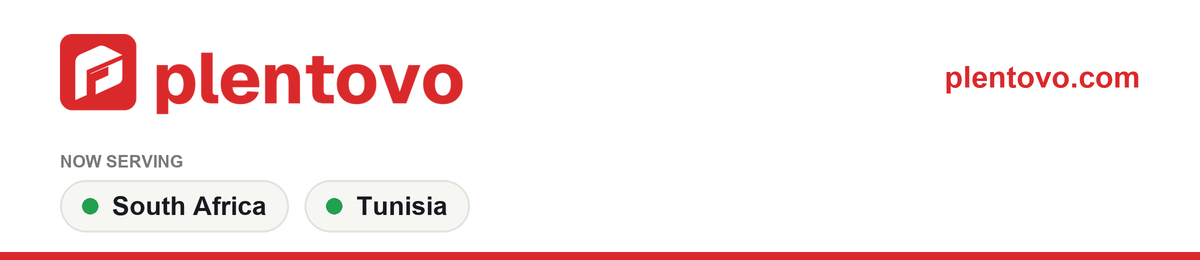
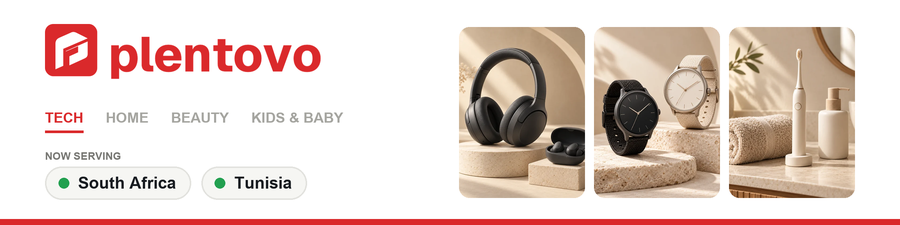
Email header: show product photos and categories

diff --git a/brand-kit/build_header.py b/brand-kit/build_header.py
@@ -1,47 +1,72 @@
 #!/usr/bin/env python3
-"""Animated email header from markets.json. Frame 0 is the complete header (Outlook shows only that)."""
+"""Animated email header from markets.json: logo, category ribbon, live-country chips, product photos that crossfade.
+Frame 0 is the complete header (Outlook shows only that)."""
 import json, pathlib
 from PIL import Image, ImageDraw, ImageFont
 here = pathlib.Path(__file__).parent
 D = json.loads((here / "markets.json").read_text())
 ms = [m for m in D["markets"] if m["status"] == "live" or (D["header"]["show_upcoming"] and m["status"] == "approved")]
-W, H, S = 1200, 260, 2
+groups = D["header"]["groups"]
+W, H, S = 1200, 300, 2
 RED, INK, GREY, GREEN = (218, 41, 43), (23, 27, 32), (120, 120, 116), (34, 160, 80)
 F = "/System/Library/Fonts/Supplemental/Arial%s.ttf"
 def font(px, bold=False): return ImageFont.truetype(F % (" Bold" if bold else ""), px * S)
 logo = Image.open(here / "logo.png").convert("RGBA")
-lh = 92 * S; logo = logo.resize((round(logo.width * lh / logo.height), lh), Image.LANCZOS)
+lh = 84 * S; logo = logo.resize((round(logo.width * lh / logo.height), lh), Image.LANCZOS)
+OW, OH = 900, 225
+TW, TH, GAP, TX, TY = 168, 228, 12, 612, 36
 
-def frame(t):  # t in 0..1: pulse phase and bar sweep
+def tile(name):
+    im = Image.open(here / "photos" / f"{name}.webp").convert("RGB")
+    h = im.height; w = round(h * TW / TH); x = (im.width - w) // 2
+    im = im.crop((x, 0, x + w, h)).resize((TW * S, TH * S), Image.LANCZOS)
+    mask = Image.new("L", im.size, 0); ImageDraw.Draw(mask).rounded_rectangle((0, 0, im.width - 1, im.height - 1), radius=14 * S, fill=255)
+    return im, mask
+
+tiles = [[tile(n) for n in g["photos"]] for g in groups]
+
+def base(active):
     im = Image.new("RGBA", (W * S, H * S), (255, 255, 255, 255)); d = ImageDraw.Draw(im)
-    im.alpha_composite(logo, (60 * S, 34 * S))
-    d.text((W * S - 60 * S, 60 * S), "plentovo.com", font=font(30, True), fill=RED, anchor="ra")
-    d.text((W * S - 60 * S, 104 * S), "Everyday essentials, delivered", font=font(22), fill=GREY, anchor="ra") if False else None
-    d.text((60 * S, 152 * S), "NOW SERVING" if all(m["status"] == "live" for m in ms) else "OUR MARKETS", font=font(17, True), fill=GREY)
-    x = 60
+    im.alpha_composite(logo, (60 * S, 32 * S))
+    x = 60; f = font(19, True)
+    for i, g in enumerate(groups):
+        w = d.textlength(g["label"], font=f) / S
+        on = i == active
+        d.text((x * S, 146 * S), g["label"], font=f, fill=RED if on else (165, 165, 160))
+        if on: d.rectangle((x * S, 174 * S, (x + w) * S, 177 * S), fill=RED)
+        x += w + 30
+    d.text((60 * S, 200 * S), "NOW SERVING", font=font(14, True), fill=GREY)
+    x = 60; cf = font(22, True)
     for m in ms:
-        live = m["status"] == "live"; name = m["name"]["en"]; f = font(26, True)
-        tw = d.textlength(name, font=f) / S; w = tw + 74
-        d.rounded_rectangle((x * S, 180 * S, (x + w) * S, 232 * S), radius=26 * S, fill=(246, 246, 243) if live else (255, 255, 255), outline=(226, 226, 222) if live else (200, 200, 196), width=2 * S)
-        cx, cy = (x + 30) * S, 206 * S
-        if live:
-            r = (8 + 10 * t) * S; a = int(120 * (1 - t))
-            ov = Image.new("RGBA", im.size, (0, 0, 0, 0)); ImageDraw.Draw(ov).ellipse((cx - r, cy - r, cx + r, cy + r), fill=GREEN + (a,)); im.alpha_composite(ov); d = ImageDraw.Draw(im)
-            d.ellipse((cx - 8 * S, cy - 8 * S, cx + 8 * S, cy + 8 * S), fill=GREEN)
-        else:
-            d.ellipse((cx - 8 * S, cy - 8 * S, cx + 8 * S, cy + 8 * S), outline=GREY, width=2 * S)
-        d.text(((x + 52) * S, 206 * S), name, font=f, fill=INK if live else GREY, anchor="lm")
-        x += w + 16
+        live = m["status"] == "live"; name = m["name"]["en"]
+        w = d.textlength(name, font=cf) / S + 64
+        d.rounded_rectangle((x * S, 222 * S, (x + w) * S, 266 * S), radius=22 * S, fill=(246, 246, 243), outline=(226, 226, 222), width=2 * S)
+        cx, cy = (x + 25) * S, 244 * S
+        d.ellipse((cx - 7 * S, cy - 7 * S, cx + 7 * S, cy + 7 * S), fill=GREEN) if live else d.ellipse((cx - 7 * S, cy - 7 * S, cx + 7 * S, cy + 7 * S), outline=GREY, width=2 * S)
+        d.text(((x + 44) * S, 244 * S), name, font=cf, fill=INK if live else GREY, anchor="lm")
+        x += w + 14
     d.rectangle((0, (H - 8) * S, W * S, H * S), fill=RED)
-    sx = int((-0.3 + 1.6 * t) * W); ov = Image.new("RGBA", im.size, (0, 0, 0, 0))
-    ImageDraw.Draw(ov).rectangle((sx * S, (H - 8) * S, (sx + 260) * S, H * S), fill=(120, 10, 14, 255)); im.alpha_composite(ov)
-    return im.convert("RGB").resize((W, H), Image.LANCZOS)
+    return im
 
-N = 14
-frames = [frame(0)] + [frame(i / N) for i in range(1, N + 1)]
-pal = [f.quantize(48, method=Image.Quantize.MEDIANCUT, dither=Image.Dither.NONE) for f in frames]
-durs = [1800] + [110] * N
+def compose(a, b, t):
+    im = base(a if t < 0.5 else b)
+    for k in range(3):
+        pa, ma = tiles[a][k]; pb, _ = tiles[b][k]
+        p = Image.blend(pa, pb, t) if t else pa
+        im.paste(p, ((TX + k * (TW + GAP)) * S, TY * S), ma)
+    return im.convert("RGB").resize((OW, OH), Image.LANCZOS)
+
+n = len(groups); frames, durs = [], []
+for a in range(n):
+    b = (a + 1) % n
+    frames.append(compose(a, b, 0)); durs.append(1800)
+    for t in (0.5,):
+        frames.append(compose(a, b, t)); durs.append(90)
+sheet = Image.new("RGB", (OW, OH * len(frames)))
+for i, f in enumerate(frames): sheet.paste(f, (0, i * OH))
+pal = sheet.quantize(128, method=Image.Quantize.MEDIANCUT, dither=Image.Dither.NONE)
+pf = [f.quantize(palette=pal, dither=Image.Dither.FLOYDSTEINBERG) for f in frames]
 out = here / "out"; out.mkdir(exist_ok=True)
-pal[0].save(out / "plentovo-header.gif", save_all=True, append_images=pal[1:], duration=durs, loop=0, optimize=True, disposal=1)
+pf[0].save(out / "plentovo-header.gif", save_all=True, append_images=pf[1:], duration=durs, loop=0, optimize=False, disposal=1)
 frames[0].save(out / "plentovo-header-static.png", optimize=True)
-print((out / "plentovo-header.gif").stat().st_size // 1024, "KB gif;", (out / "plentovo-header-static.png").stat().st_size // 1024, "KB png")
+print((out / "plentovo-header.gif").stat().st_size // 1024, "KB gif;", len(frames), "frames")
